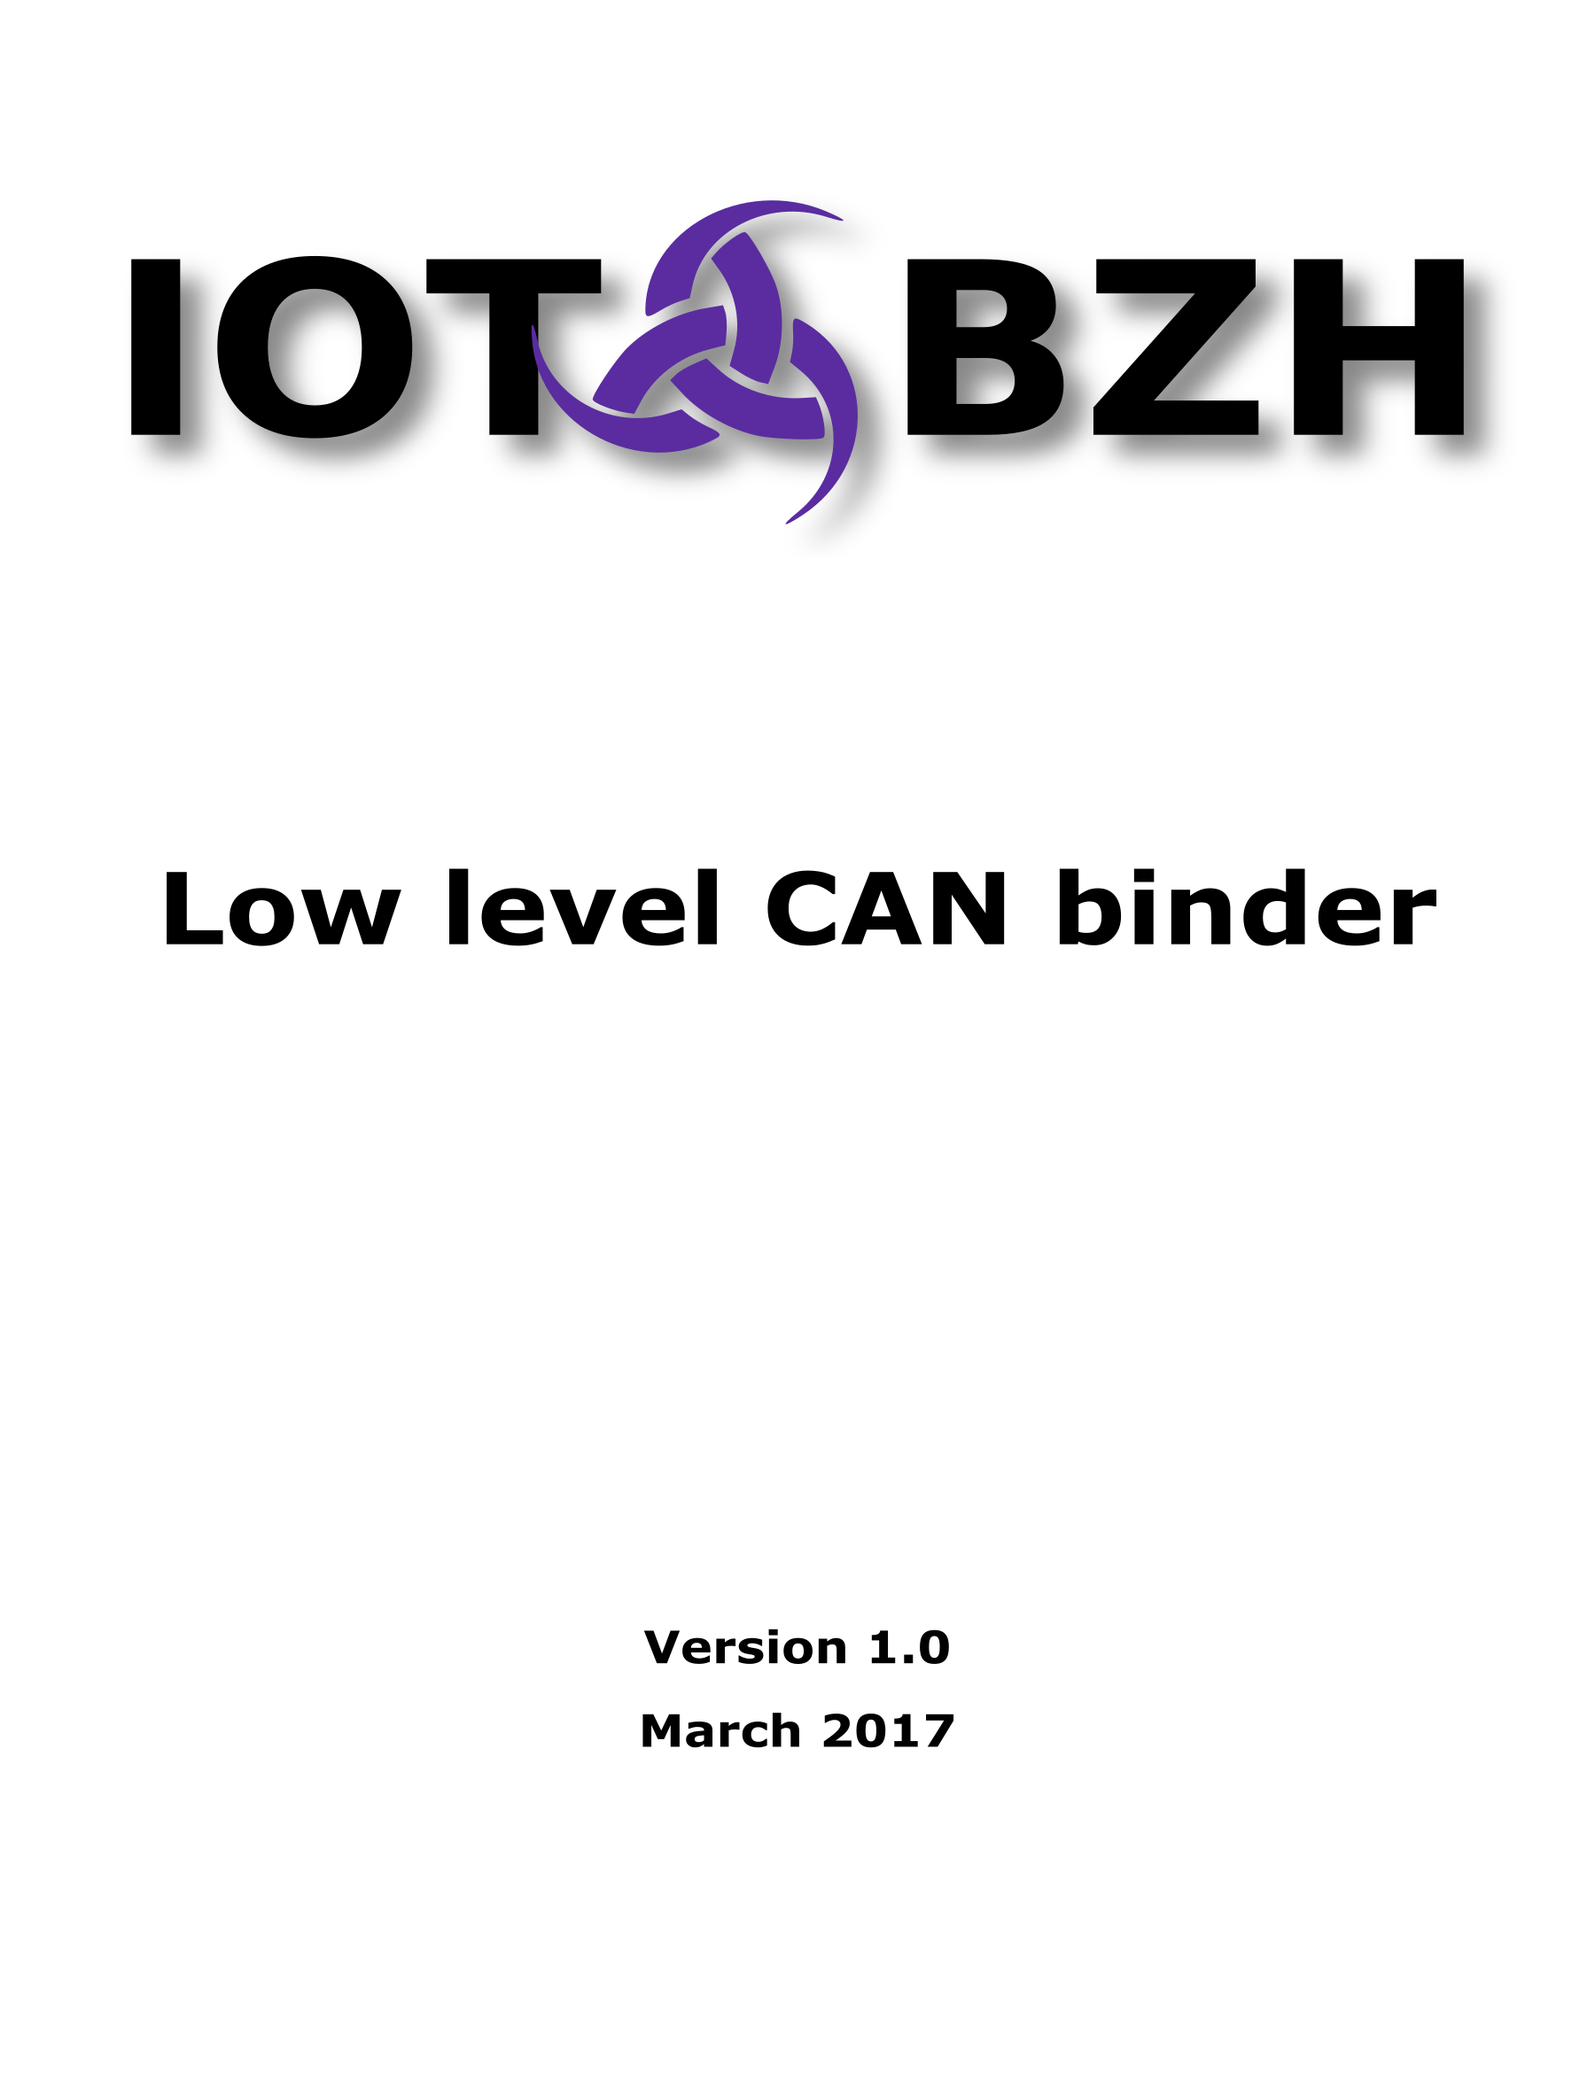
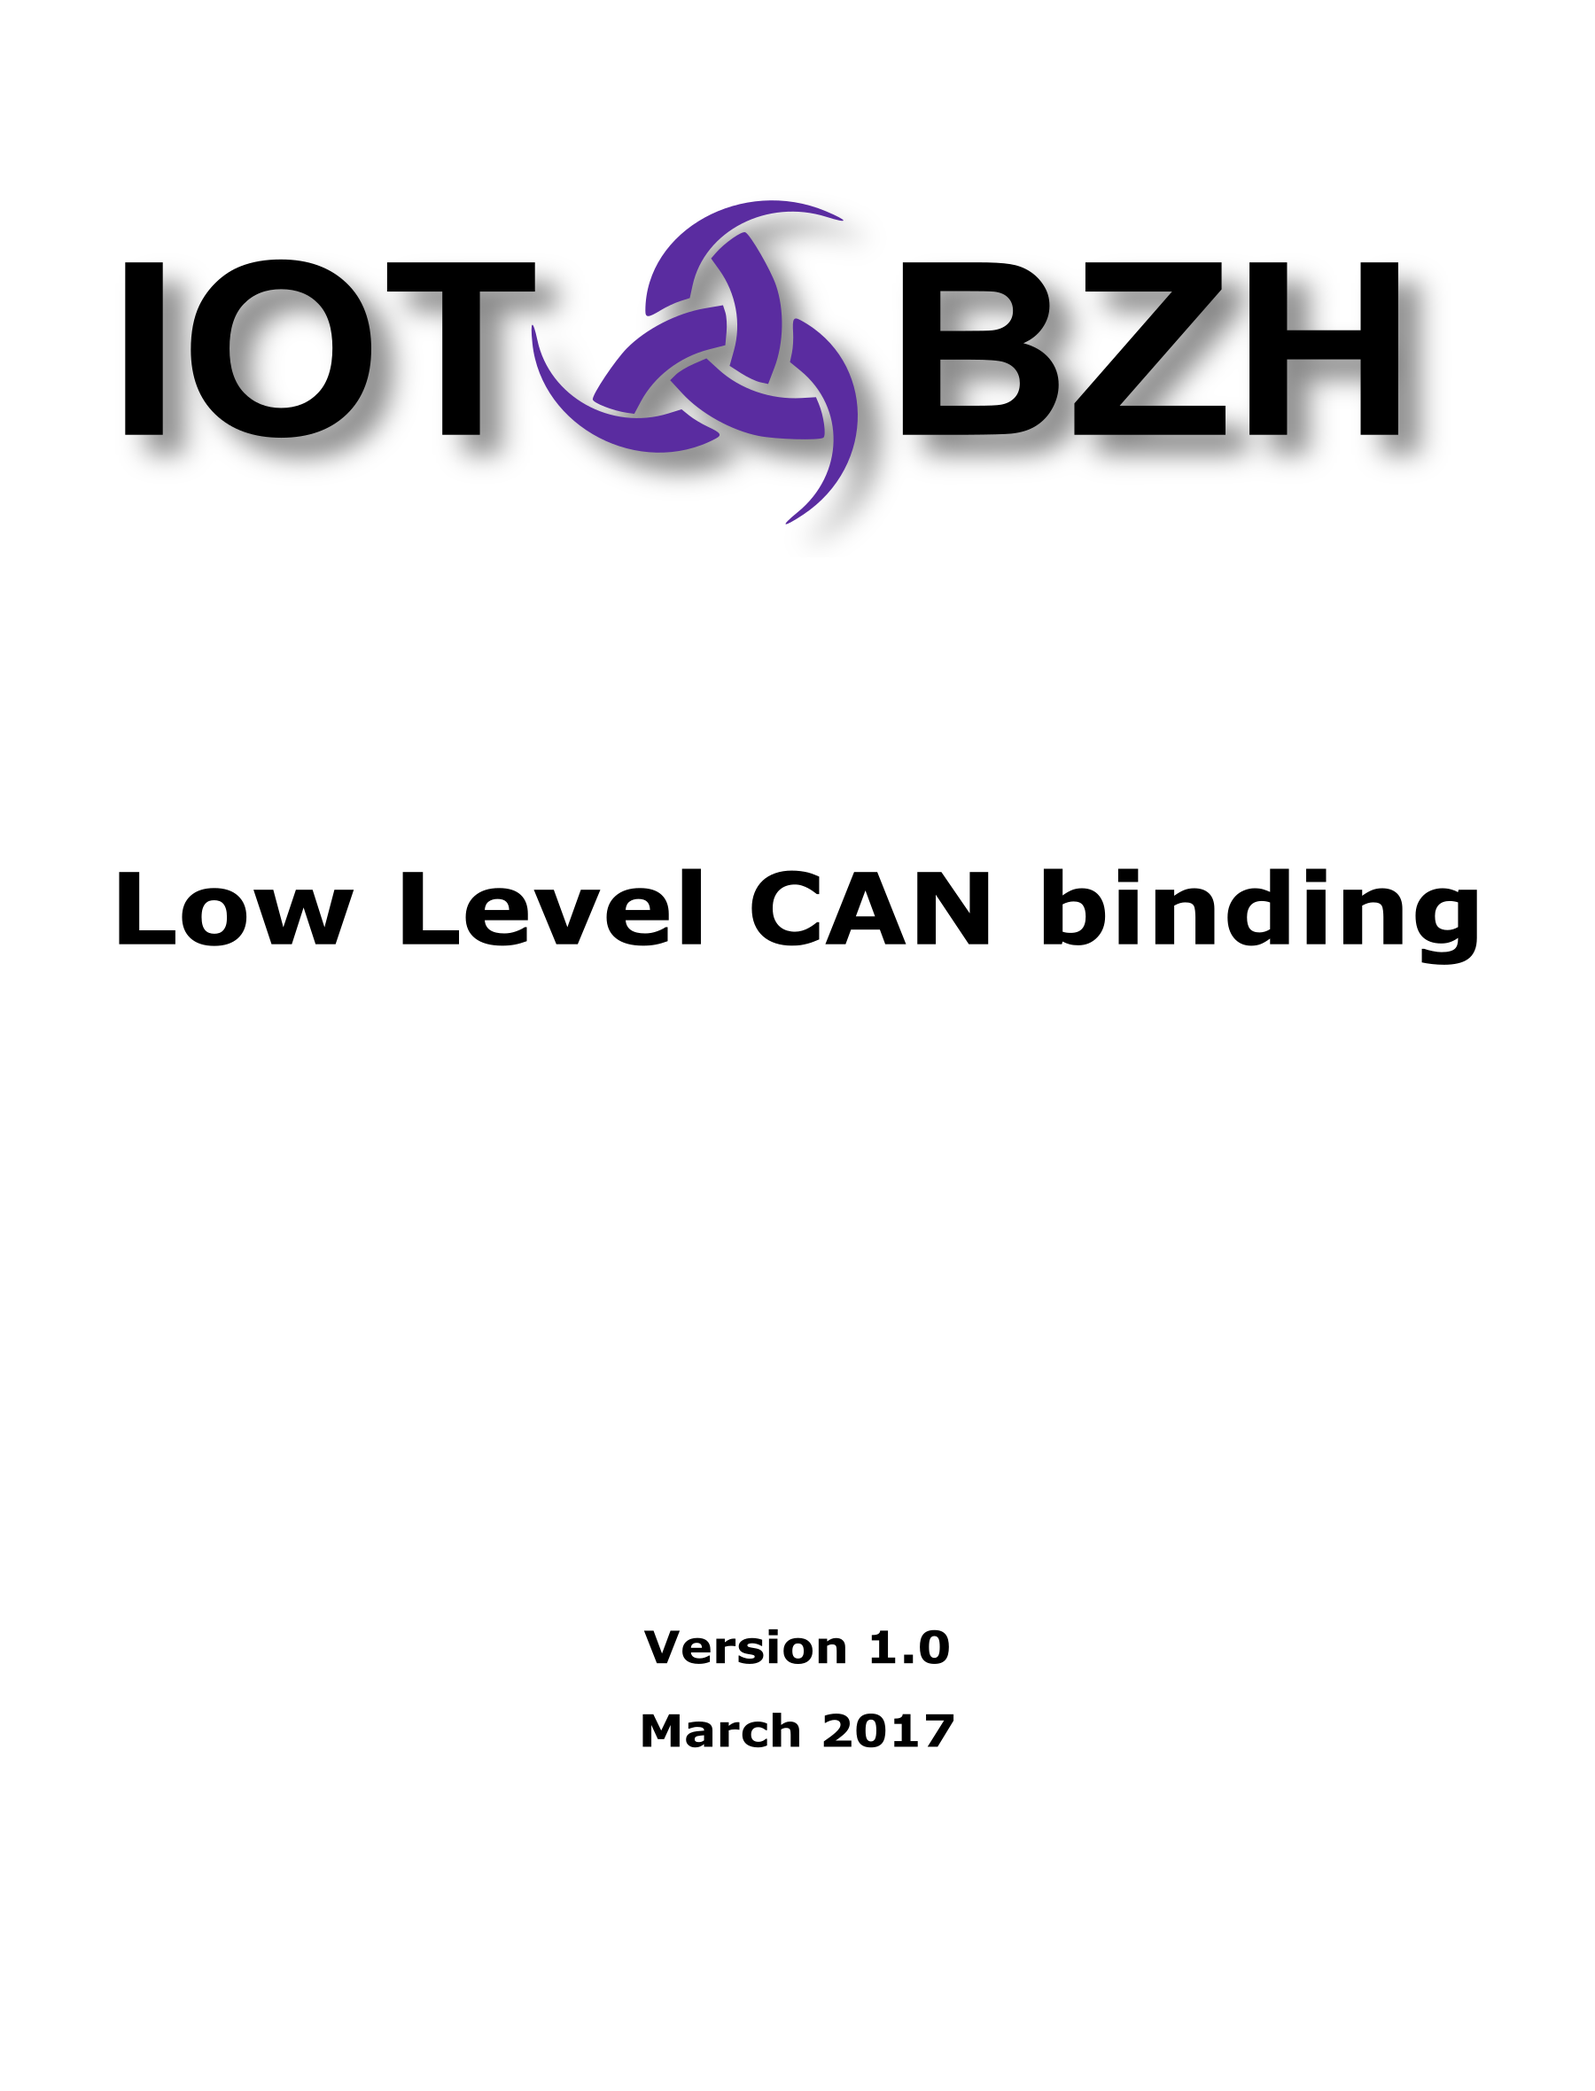
Documentation: reviewed and updated
Some fixes:
* document title
* gitbook-plugin-richquotes disabled due to bad rendering
* TOC titles and ordering

Changed region(s): [[0.0622, 0.4021, 0.9333, 0.464], [0.56, 0.1237, 0.9644, 0.2475], [0.0622, 0.1237, 0.4044, 0.2475]]

diff --git a/docs/3-Usage.md b/docs/3-Usage.md
@@ -1,6 +1,6 @@
 # Install AFB Websocket CLI client to test the binding.
 
-You can test it using afb-client-demo CLI tool provided by the RPM package *libafbwsc-dev*.
+You can test it using afb-client-demo CLI tool provided by the RPM package _libafbwsc-dev_.
 
 You can find this package in your build environment, using docker SDK recommended setup the file is `/xdt/build/tmp/deploy/rpm/<your-target-arch>/`.
 
@@ -18,7 +18,7 @@ From the docker image copy RPM to the shared directory between docker image and 
 $ cp /xdt/build/tmp/deploy/rpm/cortex15hf_neon/libafbwsc-dev-1.0-r0.cortexa15hf_neon.rpm ~/share
 ```
 
-Then plugin you SDcard in your Linux host (Windows can't read ext4 filesystem AGL runs on) and copy RPM file on it.
+Then plugin you SDcard in your Linux host \(Windows can't read ext4 filesystem AGL runs on\) and copy RPM file on it.
 
 From your host, identify SDcard block device node here it is **sdc** with the correct capacity automounted by the desktop manager:
 
@@ -48,7 +48,7 @@ sda                                                                             
 
 Copy, still from your host:
 
-> **CAUTION** Make sure to sync IO with sync command before unplug your SDcard. It could be corrupted if removed before all pending IO aren't done.
+> **CAUTION:** Make sure to sync IO with sync command before unplug your SDcard. It could be corrupted if removed before all pending IO aren't done.
 
 ```bash
 $ sudo cp ~/devel/docker/share/libafbwsc-dev-1.0-r0.cortexa15hf_neon.rpm /run/media/claneys/97f418a5-612f-44e9-b968-a19505695151/home/root
@@ -61,19 +61,19 @@ Insert the modified SDcard in your Porter board and boot from it. You are ready 
 
 ### Virtual CAN device
 
- Connected to the target, here is how to load the virtual CAN device driver and set up a new vcan device :
+Connected to the target, here is how to load the virtual CAN device driver and set up a new vcan device :
 
 ```bash
 # modprobe vcan
 # ip link add vcan0 type vcan
 # ip link set vcan0 up
- ```
+```
 
 ### CAN device using the USB CAN adapter
 
 Using real connection to CAN bus of your car using the USB CAN adapter connected to the OBD2 connector.
 
-Once connected, launch ```dmesg``` command and search which device to use :
+Once connected, launch `dmesg` command and search which device to use :
 
 ```bash
 # dmesg
@@ -110,11 +110,11 @@ This instruction assuming a speed of 500000kbps for your CAN bus, you can try ot
 
 ## Configure the binding
 
-Configure the binding specifying in the JSON configuration file the CAN device(s) that it will to connect to. Edit file */var/lib/afm/applications/low-can-binding/0.1/can_buses.json* and change the CAN device name to the one you have :
+Configure the binding specifying in the JSON configuration file the CAN device\(s\) that it will to connect to. Edit file _/var/lib/afm/applications/low-can-binding/0.1/can\_buses.json_ and change the CAN device name to the one you have :
 
 ```json
 {
-	"canbus":  "can0"
+    "canbus":  "can0"
 }
 ```
 
@@ -122,11 +122,11 @@ If you have several specify CAN bus devices use an array:
 
 ```json
 {
-	"canbus": [ "vcan0", "can0" ]
+    "canbus": [ "vcan0", "can0" ]
 }
 ```
 
-> **WARNING** Make sure the CAN bus(es) you specify in your configuration file match those specified in your generated source file with the [can-config-generator](http://github.com/iotbzh/can-config-generator).
+> **WARNING:** Make sure the CAN bus\(es\) you specify in your configuration file match those specified in your generated source file with the [can-config-generator](http://github.com/iotbzh/can-config-generator).
 
 ## Run it, test it, use it !
 
@@ -157,7 +157,7 @@ NOTICE: vcan0 device opened and reading {binding low-can}
 NOTICE: Initialized 1/1 can bus device(s) {binding low-can}
 ```
 
-On another terminal, connect to the binding using previously installed ***AFB Websocket CLI*** tool:
+On another terminal, connect to the binding using previously installed _**AFB Websocket CLI**_ tool:
 
 ```bash
 # afb-client-demo ws://localhost:1234/api?token=
@@ -165,11 +165,11 @@ On another terminal, connect to the binding using previously installed ***AFB We
 
 You will be on an interactive session where you can communicate directly with the binding API.
 
-The binding provides at this moment 2 verbs, *subscribe* and *unsubscribe*, which can take argument by a JSON **event** object.
+The binding provides at this moment 2 verbs, _subscribe_ and _unsubscribe_, which can take argument by a JSON **event** object.
 
-The argument value is the CAN message **generic_name** as described in the JSON file used to generate cpp file for the binding.
+The argument value is the CAN message **generic\_name** as described in the JSON file used to generate cpp file for the binding.
 
-To use the ***AFB Websocket CLI*** tool, a command line will be like the following :
+To use the _**AFB Websocket CLI**_ tool, a command line will be like the following :
 
 ```
 <api> <verb> <arguments>
@@ -177,15 +177,15 @@ To use the ***AFB Websocket CLI*** tool, a command line will be like the followi
 
 Where:
 
-- API : ***low-can***.
-- Verb : ***subscribe*** or ***unsubscribe***
-- Arguments : ***{ "event": "driver.doors.open" }***
+* API : _**low-can**_.
+* Verb : _**subscribe**_ or _**unsubscribe**_
+* Arguments : _**{ "event": "driver.doors.open" }**_
 
 ### Subscription and unsubscription
 
-You can ask to subscribe to chosen CAN event with a call to *subscribe* API verb with the CAN messages name as JSON argument.
+You can ask to subscribe to chosen CAN event with a call to _subscribe_ API verb with the CAN messages name as JSON argument.
 
-> **Note** If no argument is provided, then you'll subscribe to all signals at once.
+> **NOTE:** If no argument is provided, then you'll subscribe to all signals at once.
 
 For example from a websocket session:
 
@@ -194,7 +194,7 @@ low-can subscribe { "event": "doors.driver.open" }
 ON-REPLY 1:low-can/subscribe: {"jtype":"afb-reply","request":{"status":"success","uuid":"a18fd375-b6fa-4c0e-a1d4-9d3955975ae8"}}
 ```
 
-Subscription and unsubscription can take wildcard in their *event* value.
+Subscription and unsubscription can take wildcard in their _event_ value.
 
 To reveive all doors events :
 
@@ -203,15 +203,15 @@ low-can subscribe { "event" : "doors*" }
 ON-REPLY 1:low-can/subscribe: {"jtype":"afb-reply","request":{"status":"success","uuid":"511c872e-d7f3-4f3b-89c2-aa9a3e9fbbdb"}}
 ```
 
-Then you will receive an event each time a CAN message is decoded for the event named *doors.driver.open*
+Then you will receive an event each time a CAN message is decoded for the event named _doors.driver.open_
 
 ```json
 ON-EVENT low-can/messages.doors.driver.open({"event":"low-can\/messages.doors.driver.open","data":{"name":"messages.doors.driver.open","value":true},"jtype":"afb-event"})
 ```
 
-Notice that event shows you that the CAN event is named *messages.doors.driver.open* but you ask for event about *doors.driver.open*.
+Notice that event shows you that the CAN event is named _messages.doors.driver.open_ but you ask for event about _doors.driver.open_.
 
-This is because all CAN messages or diagnostic messages are prefixed by the JSON parent node name, **messages** for CAN messages and **diagnostic_messages** for diagnostic messages like OBD2.
+This is because all CAN messages or diagnostic messages are prefixed by the JSON parent node name, **messages** for CAN messages and **diagnostic\_messages** for diagnostic messages like OBD2.
 
 This will let you subscribe or unsubcribe to all signals at once, not recommended, and better make filter on subscribe operation based upon their type. Examples:
 
@@ -248,3 +248,6 @@ Send a custom message:
 ```bash
 # cansend can0 ID#DDDDAAAATTTTAAAA
 ```
+
+
+

diff --git a/docs/2-Installation.md b/docs/2-Installation.md
@@ -1,12 +1,12 @@
 # Prerequisites
 
-- An AGL system installed with latest Chinook version (>3.0.2).
+* An AGL system installed with latest Chinook version \(&gt;3.0.2\).
 
-- Make sure you built the AGL generator else you will not be able to generate custom low-level CAN binding. Generator can be found [here](http://github.com/iotbzh/can-config-generator) with the attached instruction to install and run it.
+* Make sure you built the AGL generator else you will not be able to generate custom low-level CAN binding. Generator can be found [here](http://github.com/iotbzh/can-config-generator) with the attached instruction to install and run it.
 
-It will produce a *configuration-generated.cpp* file to paste in the source, *src/*, directory.
+It will produce a _configuration-generated.cpp_ file to paste in the source, _src/_, directory.
 
-- Make sure you already set up the AGL SDK using the following [guide](http://docs.iot.bzh/docs/getting_started/en/dev/reference/setup-sdk-environment.html).
+* Make sure you already set up the AGL SDK using the following [guide](http://docs.iot.bzh/docs/getting_started/en/dev/reference/setup-sdk-environment.html).
 
 To get the correct SDK version installed, you **must** prepare your environment with the **chinook-next** version. To do so, run the following command in your docker image:
 
@@ -14,14 +14,14 @@ To get the correct SDK version installed, you **must** prepare your environment 
 $ prepare_meta -f chinook-next -o /xdt -l /home/devel/mirror -p /home/devel/share/proprietary-renesas-rcar/ -t porter -e wipeconfig -e rm_work
 ```
 
-- Check that you updated git submodules, executing the following commands from this repository:
+* Check that you updated git submodules, executing the following commands from this repository:
 
 ```bash
 $ git submodule init
 $ git submodule update
 ```
 
-- An [USB CAN adapter](http://shop.8devices.com/usb2can) connected to OBD2 connector through the [right cable](http://www.mouser.fr/ProductDetail/EasySync/OBD-M-DB9-F-ES/)).
+* An [USB CAN adapter](http://shop.8devices.com/usb2can) connected to OBD2 connector through the [right cable](http://www.mouser.fr/ProductDetail/EasySync/OBD-M-DB9-F-ES/)\).
 
 # Getting started
 
@@ -32,9 +32,9 @@ $ git submodule update
 * CMake version 3.0 or later
 * G++, Clang++ or any C++11 complient compiler.
 * Boost
-    * filesystem
-    * program_options
-    * system
+  * filesystem
+  * program\_options
+  * system
 
 You can install any of these using your package manager. For instance, inside the iotbzh's docker image, you must enter this command :
 
@@ -54,7 +54,7 @@ remote: Compressing objects: 100% (42/42), done.
 remote: Total 74 (delta 30), reused 67 (delta 27), pack-reused 0
 Unpacking objects: 100% (74/74), done.
 Checking connectivity... done.
-	
+
 <b>devel@bsp-devkit:~/projects/$</b> cd can-config-generator
 <b>devel@bsp-devkit:~/projects/can-config-generator/(master)$</b> mkdir build
 <b>devel@bsp-devkit:~/projects/can-config-generator/build(master)$</b> cmake -G "Unix Makefiles" ..
@@ -98,21 +98,21 @@ To generate your config file you just have to run the generator using the `-m` o
 $ can-config-generator -m ../tests/basic.json -o configuration-generated.cpp
 ```
 
-If you omit the `-o` option, then code is generated on the stdout.
-You also can specify a header and a footer file.
-These files must be valid C++ fragment as long as they will be inserted as is.
+If you omit the `-o` option, then code is generated on the stdout.  
+You also can specify a header and a footer file.  
+These files must be valid C++ fragment as long as they will be inserted as is.  
 Use the `-h` option to display help.
 
-> **CAUTION** Each `diagnostic_message` must define the same `bus` as the binding will use only one bus.
+> **CAUTION:** Each `diagnostic_message` must define the same `bus` as the binding will use only one bus.
 
 ### Supported OpenXC items
 
-About now, compliance with OpenXC reference is in progress, can-config-generator and CAN_signaling will implement them soon.
+About now, compliance with OpenXC reference is in progress, can-config-generator and CAN\_signaling will implement them soon.  
 `initializers`, `loopers`, `commands` and `handlers` nodes are ignored for now.
 
 This generator will follow OpenXC support status of the low level CAN signaling binding.
 
-> **NOTE** The `buses` item will not be supported by this generator because the binding use another way to declare and configure buses. Please refer to the binding's documentation.
+> **NOTE**: The `buses` item will not be supported by this generator because the binding use another way to declare and configure buses. Please refer to the binding's documentation.
 
 ## Compile and install the binding
 
@@ -153,9 +153,9 @@ Error org.freedesktop.DBus.Error.Failed: "system error"
 
 It's because installation remove the binding before installing it.
 
-If it is the first time that you make the installation then you'll have this message in place of ***true***.
+If it is the first time that you make the installation then you'll have this message in place of _**true**_.
 
-To install it manually, you need to copy the *low-can-binding.wgt* file on your target, then from it execute the following commands :
+To install it manually, you need to copy the _low-can-binding.wgt_ file on your target, then from it execute the following commands :
 
 On your host, to copy over the network :
 
@@ -163,9 +163,12 @@ On your host, to copy over the network :
 $ scp low-can-binding.wgt root@<target_IP>:~
 ```
 
-On the target, assuming ***wgt*** file is in the root home directory :
+On the target, assuming _**wgt**_ file is in the root home directory :
 
 ```bash
 ~# afm-util install low-can-binding.wgt
 { "added": "low-can-binding@0.1" }
 ```
+
+
+

diff --git a/docs/Doc-Revisions.md b/docs/Doc-Revisions.md
@@ -3,4 +3,4 @@ Document revisions
 
 | Date        | Version | Designation                          | Author                  |
 |-------------|---------|--------------------------------------|-------------------------|
-| 20 Mar 2017 |   1.0   | Initial release                      | R. Forlot [ Iot.bzh ] <br> S. Douheret [ Iot.bzh ] |
+| 20 Mar 2017 |   1.0   | Initial release                      | R. Forlot [ Iot.bzh ] <br/> S. Douheret [ Iot.bzh ] |

diff --git a/docs/SUMMARY.md b/docs/SUMMARY.md
@@ -1,8 +1,7 @@
 # Summary
 
+* [Abstract](README.md)
 * [Document revisions](Doc-Revisions.md)
-
-* [Introduction](README.md)
 * [Architecture](1-Architecture.md)
 * [Installation](2-Installation.md)
 * [Usage](3-Usage.md)

diff --git a/docs/README.md b/docs/README.md
@@ -1,6 +1,4 @@
-# Low level CAN binding for AGL
-
-## Abstract
+# Abstract
 
 This project proposes a Low Level CAN Binding for AGL, with the following features:
 
